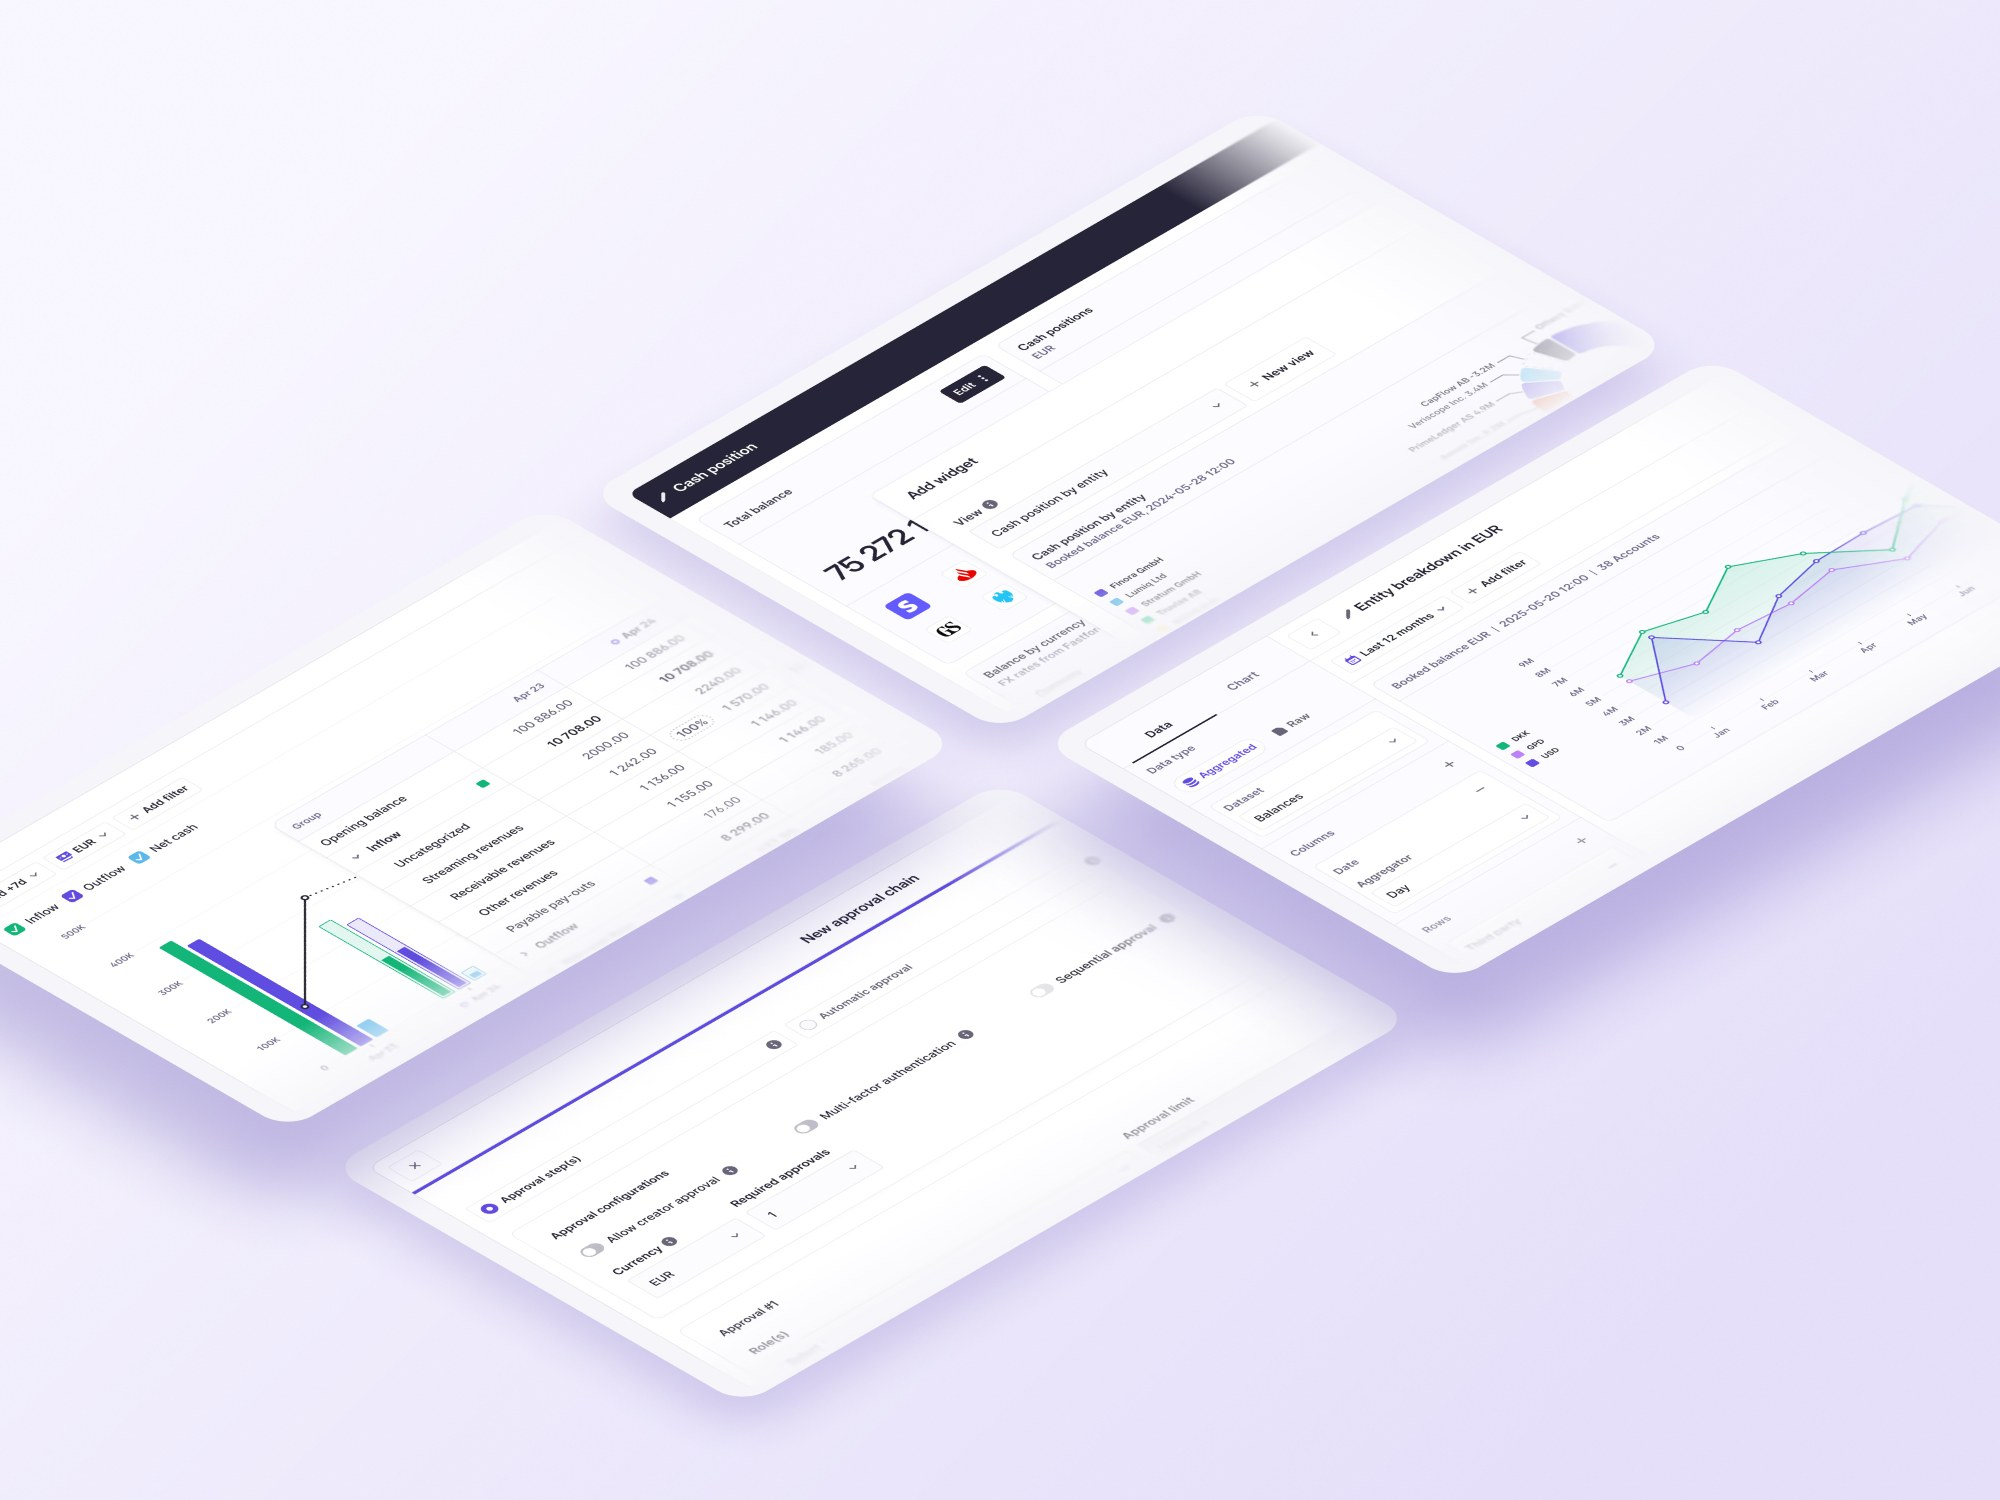
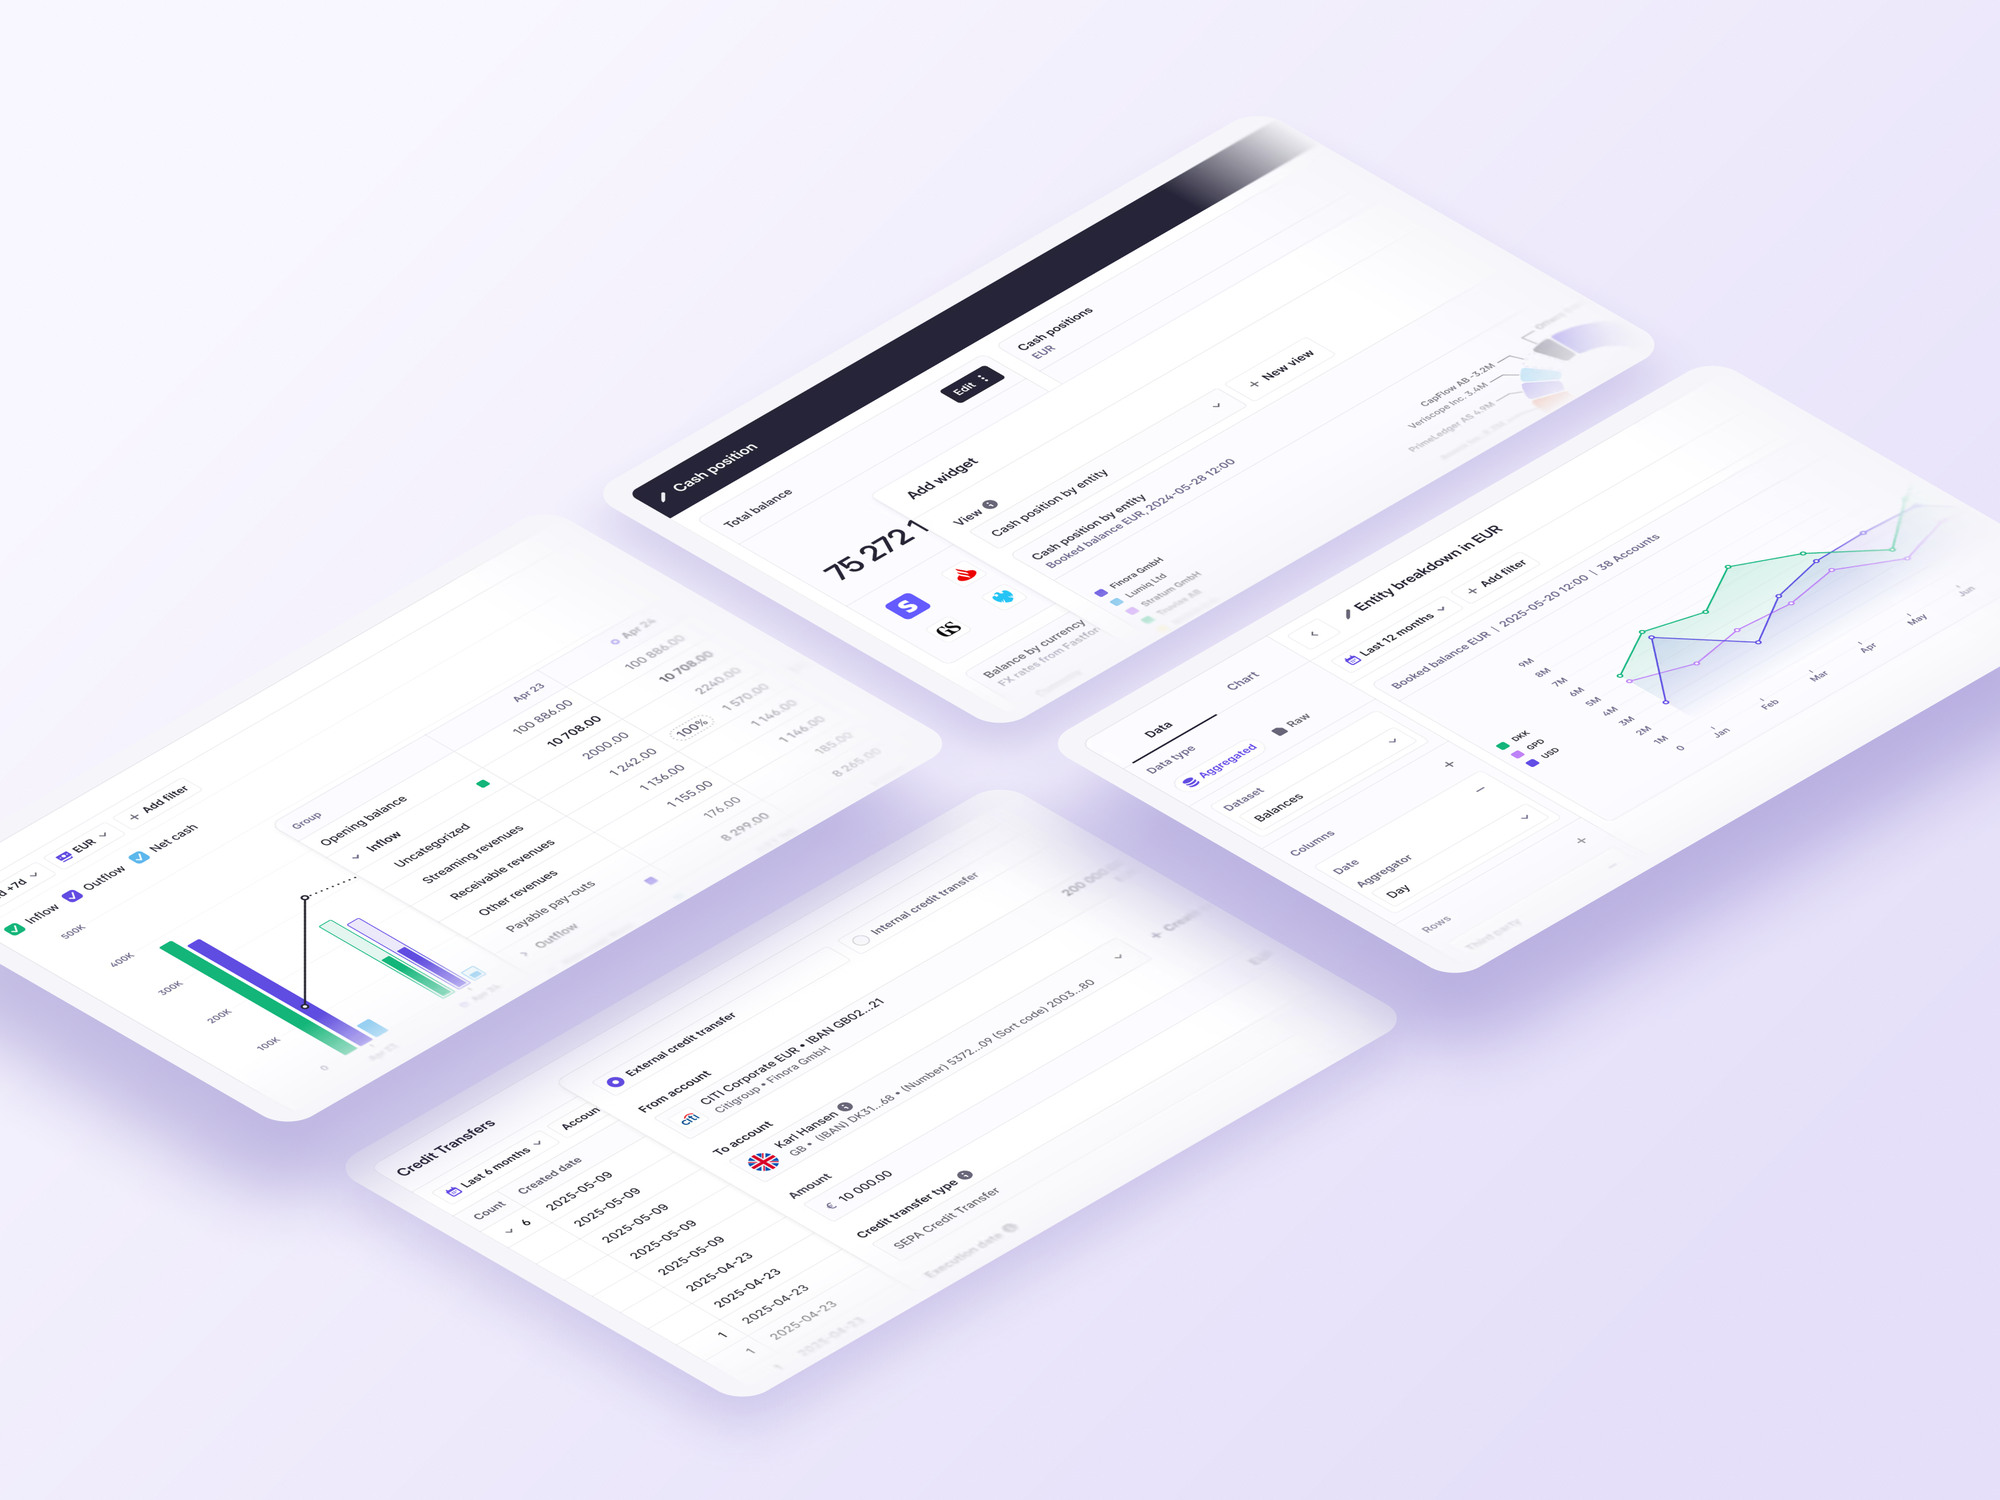
More work: updated Atlar image
Claude-Session: https://claude.ai/code/session_01T8AAM769pNUjzneeyTgJVR

diff --git a/docs/index.html b/docs/index.html
@@ -98,7 +98,7 @@
 <article class="c-card">
 <a class="c-card" href="more-work/">
 <div data-rv="3" class="frame rv c-media">
-<div class="ph sl c-a904ae"><img src="assets/klarna-1400.webp?v=a56a74ed" srcset="assets/klarna-800.webp?v=a18558d9 800w, assets/klarna-1400.webp?v=a56a74ed 1400w, assets/klarna.webp?v=1fc53044 2000w" sizes="(min-width: 1440px) 440px, (min-width: 700px) 46vw, 92vw" loading="lazy" decoding="async" alt="A selection of other work: Klarna, Reda, Qapital, Atlar, Romo Bygg and Svartanatt"><img src="assets/reda-1400.webp?v=05880f33" srcset="assets/reda-800.webp?v=ec573a99 800w, assets/reda-1400.webp?v=05880f33 1400w, assets/reda.webp?v=756b19e9 2000w" sizes="(min-width: 1440px) 900px, (min-width: 1000px) 62vw, 92vw" loading="lazy" decoding="async" alt=""><img src="assets/qapital-1400.webp?v=ae49ee5f" srcset="assets/qapital-800.webp?v=fa20acdd 800w, assets/qapital-1400.webp?v=ae49ee5f 1400w, assets/qapital.webp?v=312f7fcc 2000w" sizes="(min-width: 1440px) 440px, (min-width: 700px) 46vw, 92vw" loading="lazy" decoding="async" alt=""><img src="assets/atlar-1400.webp?v=90031cf9" srcset="assets/atlar-800.webp?v=59c15f0a 800w, assets/atlar-1400.webp?v=90031cf9 1400w, assets/atlar.webp?v=cd55b95b 2000w" sizes="(min-width: 1440px) 440px, (min-width: 700px) 46vw, 92vw" loading="lazy" decoding="async" alt=""><img src="assets/romo-bygg-1400.webp?v=dbc08c39" srcset="assets/romo-bygg-800.webp?v=d6e807f8 800w, assets/romo-bygg-1400.webp?v=dbc08c39 1400w, assets/romo-bygg.webp?v=745fbbb3 2000w" sizes="(min-width: 1440px) 440px, (min-width: 700px) 46vw, 92vw" loading="lazy" decoding="async" alt=""><img src="assets/svartanatt.webp?v=2c3ea246" srcset="assets/svartanatt-800.webp?v=5318c107 800w, assets/svartanatt.webp?v=2c3ea246 1600w" sizes="(min-width: 1440px) 440px, (min-width: 700px) 46vw, 92vw" loading="lazy" decoding="async" alt=""></div>
+<div class="ph sl c-a904ae"><img src="assets/klarna-1400.webp?v=a56a74ed" srcset="assets/klarna-800.webp?v=a18558d9 800w, assets/klarna-1400.webp?v=a56a74ed 1400w, assets/klarna.webp?v=1fc53044 2000w" sizes="(min-width: 1440px) 440px, (min-width: 700px) 46vw, 92vw" loading="lazy" decoding="async" alt="A selection of other work: Klarna, Reda, Qapital, Atlar, Romo Bygg and Svartanatt"><img src="assets/reda-1400.webp?v=05880f33" srcset="assets/reda-800.webp?v=ec573a99 800w, assets/reda-1400.webp?v=05880f33 1400w, assets/reda.webp?v=756b19e9 2000w" sizes="(min-width: 1440px) 900px, (min-width: 1000px) 62vw, 92vw" loading="lazy" decoding="async" alt=""><img src="assets/qapital-1400.webp?v=ae49ee5f" srcset="assets/qapital-800.webp?v=fa20acdd 800w, assets/qapital-1400.webp?v=ae49ee5f 1400w, assets/qapital.webp?v=312f7fcc 2000w" sizes="(min-width: 1440px) 440px, (min-width: 700px) 46vw, 92vw" loading="lazy" decoding="async" alt=""><img src="assets/atlar-1400.webp?v=4212e9a0" srcset="assets/atlar-800.webp?v=1175e4a0 800w, assets/atlar-1400.webp?v=4212e9a0 1400w, assets/atlar.webp?v=0b436af6 2000w" sizes="(min-width: 1440px) 440px, (min-width: 700px) 46vw, 92vw" loading="lazy" decoding="async" alt=""><img src="assets/romo-bygg-1400.webp?v=dbc08c39" srcset="assets/romo-bygg-800.webp?v=d6e807f8 800w, assets/romo-bygg-1400.webp?v=dbc08c39 1400w, assets/romo-bygg.webp?v=745fbbb3 2000w" sizes="(min-width: 1440px) 440px, (min-width: 700px) 46vw, 92vw" loading="lazy" decoding="async" alt=""><img src="assets/svartanatt.webp?v=2c3ea246" srcset="assets/svartanatt-800.webp?v=5318c107 800w, assets/svartanatt.webp?v=2c3ea246 1600w" sizes="(min-width: 1440px) 440px, (min-width: 700px) 46vw, 92vw" loading="lazy" decoding="async" alt=""></div>
 </div>
 <div class="c-bc8afc">
 <h3 class="c-h3-small">More work</h3>

diff --git a/docs/more-work/index.html b/docs/more-work/index.html
@@ -46,7 +46,7 @@
 
 <div class="mw c-dfa173">
 <figure class="c-figure">
-<div data-rv="0" data-lb="1" tabindex="0" role="button" aria-label="Enlarge image" class="rv c-media"><img class="zm" src="../assets/atlar-1400.webp?v=90031cf9" srcset="../assets/atlar-800.webp?v=59c15f0a 800w, ../assets/atlar-1400.webp?v=90031cf9 1400w, ../assets/atlar.webp?v=cd55b95b 2000w" sizes="(min-width: 1440px) 600px, (min-width: 900px) 46vw, 92vw" data-lbsrc="../assets/atlar.webp?v=cd55b95b" fetchpriority="high" decoding="async" alt="Four views from the Atlar treasury platform: cash flow forecast, custom dashboard, cash reporting and approval chains" width="2000" height="1500"></div>
+<div data-rv="0" data-lb="1" tabindex="0" role="button" aria-label="Enlarge image" class="rv c-media"><img class="zm" src="../assets/atlar-1400.webp?v=4212e9a0" srcset="../assets/atlar-800.webp?v=1175e4a0 800w, ../assets/atlar-1400.webp?v=4212e9a0 1400w, ../assets/atlar.webp?v=0b436af6 2000w" sizes="(min-width: 1440px) 600px, (min-width: 900px) 46vw, 92vw" data-lbsrc="../assets/atlar.webp?v=0b436af6" fetchpriority="high" decoding="async" alt="Four views from the Atlar treasury platform: cash flow forecast, custom dashboard, cash reporting and credit transfers" width="2000" height="1500"></div>
 <figcaption class="c-caption"><span>Atlar</span><span class="c-muted">Treasury platform · Product design · 2024–2026</span></figcaption>
 </figure>
 <figure class="c-figure">

diff --git a/site/pages/more.html b/site/pages/more.html
@@ -1,7 +1,7 @@
 @TOP{More work|A selection of other things I have designed over the years, from fintech products to logos and record sleeves.|}
 
 <div class="mw" style="margin: 0 0 clamp(96px, 11vw, 168px); display: grid; grid-template-columns: repeat(auto-fit, minmax(min(420px, 100%), 1fr)); gap: clamp(40px, 4vw, 64px) 24px">
-@FIG{0|atlar.jpg|Four views from the Atlar treasury platform: cash flow forecast, custom dashboard, cash reporting and approval chains|Atlar|Treasury platform · Product design · 2024–2026}
+@FIG{0|atlar.jpg|Four views from the Atlar treasury platform: cash flow forecast, custom dashboard, cash reporting and credit transfers|Atlar|Treasury platform · Product design · 2024–2026}
 @FIG{5|qapital.jpg|Four screens from the Qapital app: overview, payday recommendation, spending and bills, and the card|Qapital|Banking app · Product design · 2021}
 @FIG{6|reda.jpg|Four screens from the Reda app: invoices waiting for approval with one swiped to approve, an invoice, a reply to an approval request, and the all-done state|Reda|Invoice approval app · Product design · 2026|face}
 @FIG{2|klarna.jpg|The Create campaign view in Klarna Ads Manager, with a phone preview of the ad, shown in perspective on purple|Klarna|Ads Manager · Product design · 2022}

diff --git a/site/build.py b/site/build.py
@@ -15,7 +15,7 @@ ASSETS = {
     "233ee65b2141d99bdbb6690980ede10f": "ww-hero.mp4", "e9707fabde6acdb8dac9fd62a9b1cd87": "ww-hero-poster.jpg",
     "d476c1de7d4ebcd154be542a995a235d": "ww-hero.mp4", "976879ef63486b34644bd1d3da83f9dd": "ww-hero.mp4", "07e1d0d6fa6239a51a8df2bc62c70bb5": "ww-hero-poster.jpg", "7d129ab7d08822063949654e82556f18": "ww-hero-poster.jpg",
     "16fa00db29608fb33f843c4995f7481c": "klarna.jpg", "e5bff79d085d4e0ec60e4a1f3527f37a": "qapital.jpg",
-    "b7f02dd23c21bd09813d00f3d07ad053": "atlar.jpg", "c01776bc0bd7ccddd66d72ed605c93e0": "romo-bygg.jpg",
+    "b7f02dd23c21bd09813d00f3d07ad053": "atlar.jpg", "04af04a40b5e649ddbb3c42f2d96d577": "atlar.jpg", "c01776bc0bd7ccddd66d72ed605c93e0": "romo-bygg.jpg",
     "c4459226de797c4df204a6b0b06ca3d5": "svartanatt.jpg", "fec15f3ac0007fd30fc3f6f249fd448c": "henrik.jpg",
     "aa1eb67f8c8be2493bbfd4aa54762e37": "oqto-type.jpg", "471465112e013b29ffcea0fa0ea3b559": "oqto-components.jpg",
     "c34dd534a3003ee261711ca87890d62c": "oqto-dark.jpg", "b7a1f7ae78d363ddf79c024ff4bfa8f4": "oqto-light.jpg",
